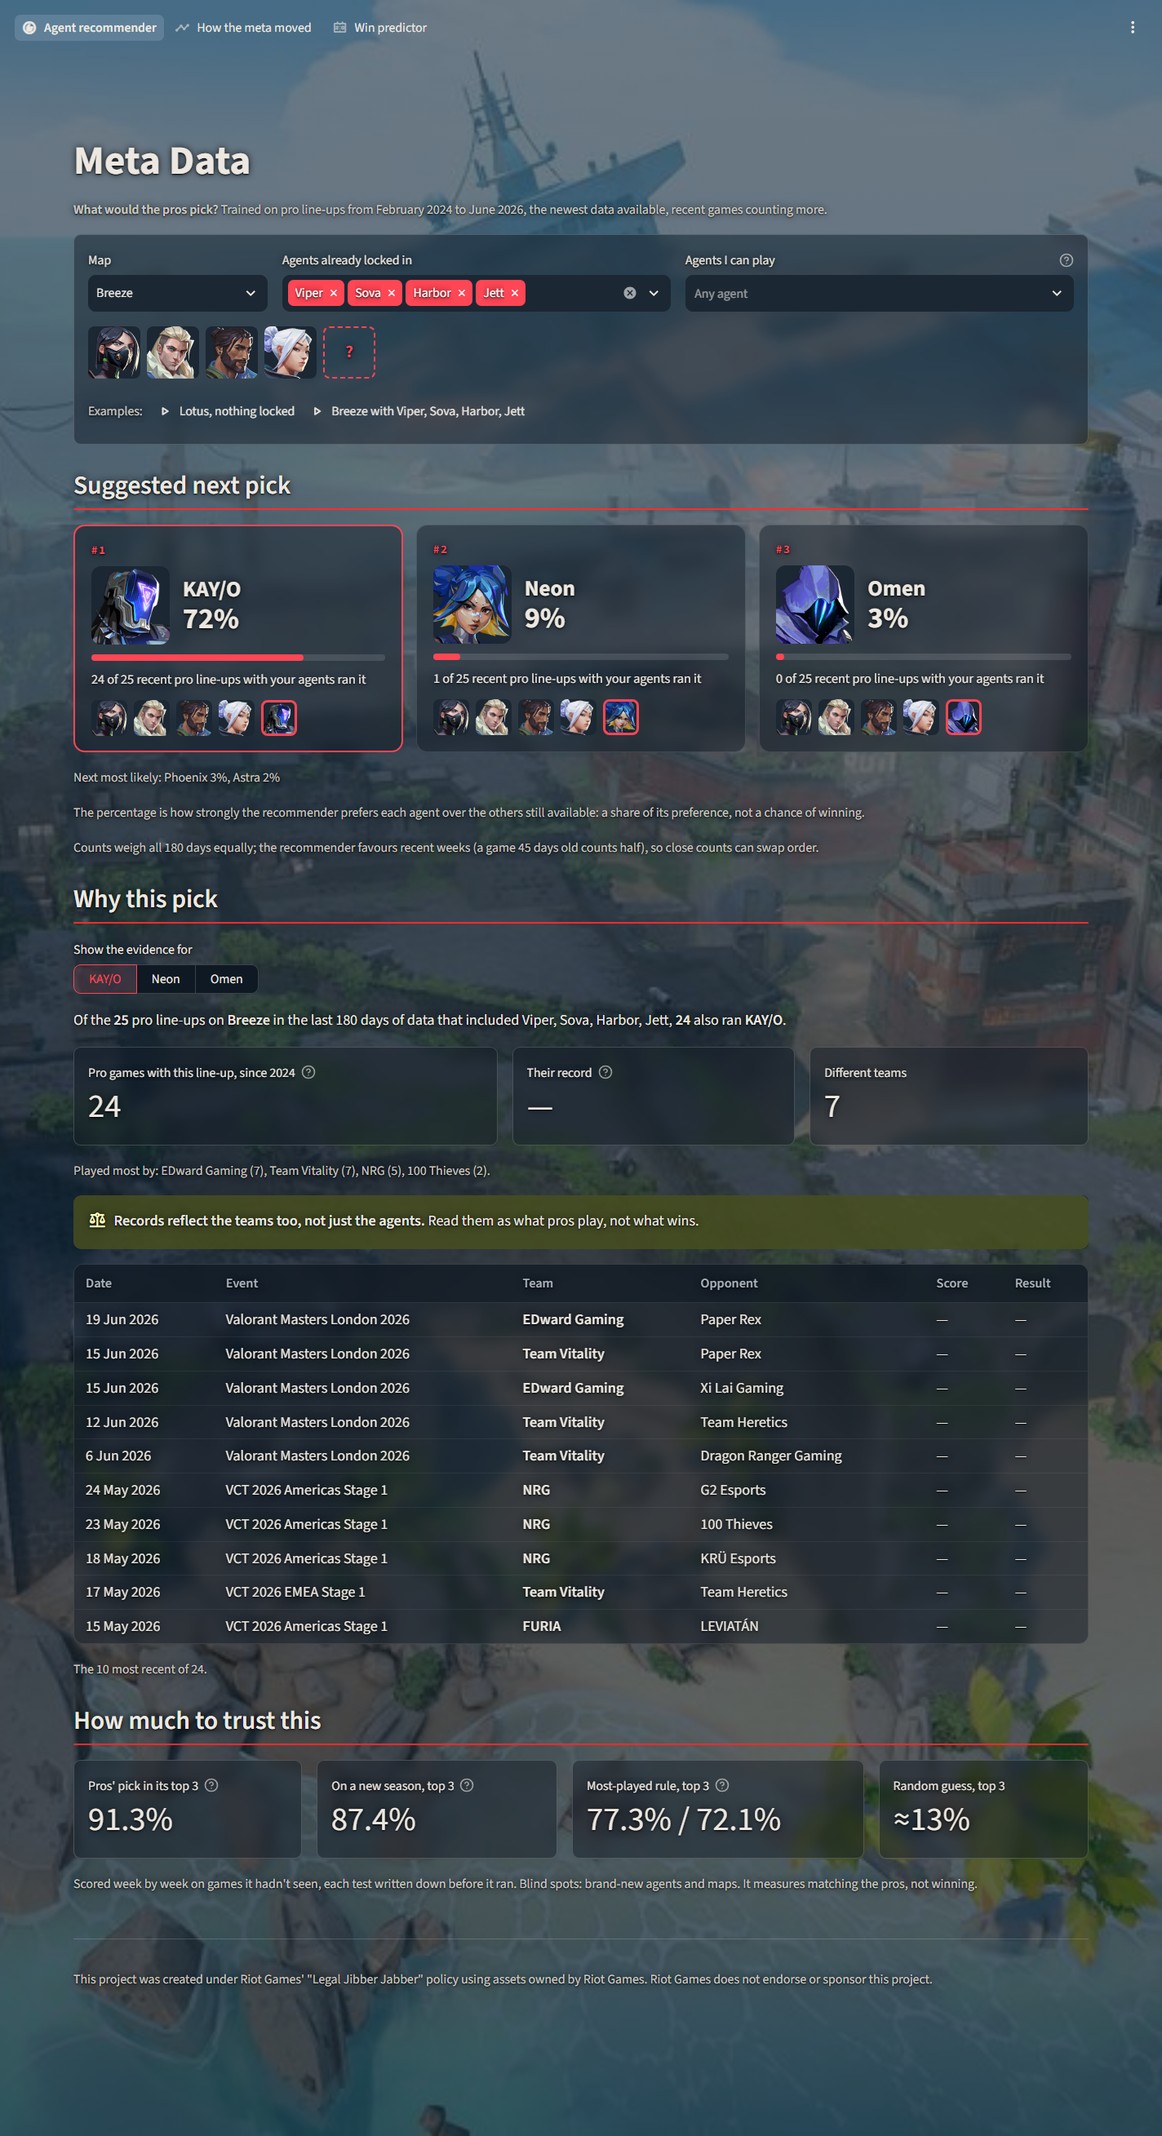
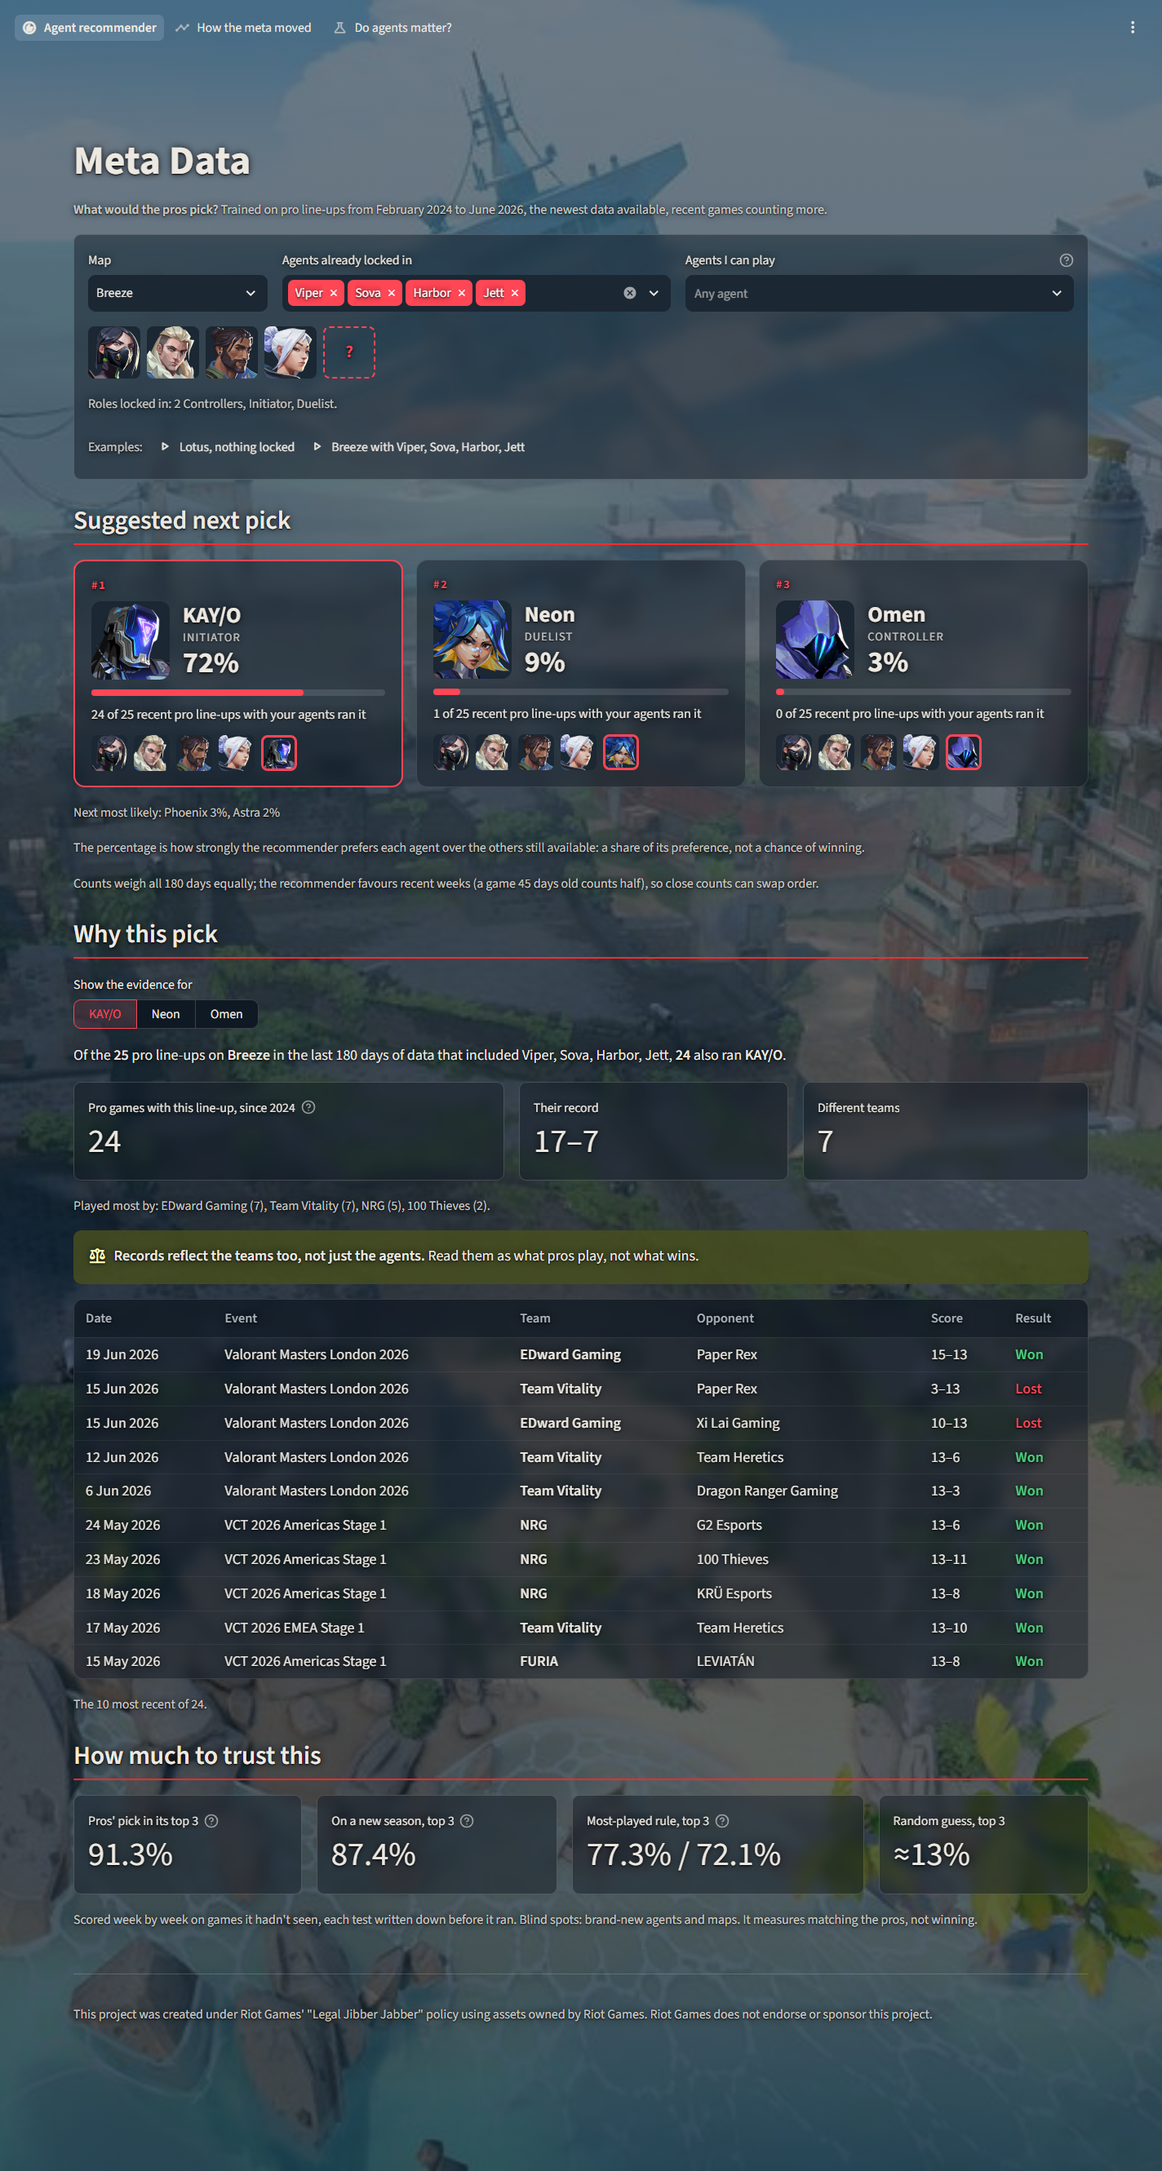
Show 2026 results, add a role check, rename the win predictor
- The app now shows 2026 win results; the win-model test they were held back for was dropped.
- Suggestion cards show each agent's role, and the app warns when a line-up lacks a role
  pros nearly always run (controller, initiator or duelist). Roles are in src/roles.py.
- The win predictor page is now "Do agents matter?", leading with the answer.
- Tests, README and screenshots updated.

diff --git a/app_pages/recommender.py b/app_pages/recommender.py
@@ -21,6 +21,7 @@ sys.path.insert(0, str(Path(__file__).resolve().parent))
 
 from dataset import build_map_table  # noqa: E402
 from recommend import Classifier, games_with, hide_results, lineup_records, lineup_table, pool_picks  # noqa: E402
+from roles import missing_roles, role, role_counts  # noqa: E402
 from icons import glass_table, lineup_html, map_background, pick_cards  # noqa: E402
 
 # The headline method and its settings, fixed in notebook 13 and tested in notebook 14.
@@ -30,9 +31,9 @@ HALF_LIFE_DAYS = 45
 # week on the rest of 2025 and on 2026; the app then learns from all of it, as it would in use.
 SEASONS = ["vct_2024", "vct_2025", "vct_2026"]
 
-# 2026's win results are still unopened (see README), so the app shows that season's line-ups
-# but not who won. The recommender never sees results either way. True opens them.
-SHOW_2026_RESULTS = False
+# 2026's win results were held back for a win-model test that was later dropped, so they're
+# now shown. The recommender never sees results either way. False hides them again.
+SHOW_2026_RESULTS = True
 RESULTS_HIDDEN_FROM = pd.Timestamp("2026-01-01")
 
 # From notebook 14, on the 2025 test half's 1,032 line-ups.
@@ -64,6 +65,22 @@ DISPLAY = {"kayo": "KAY/O"}
 
 def display(agent: str) -> str:
     return DISPLAY.get(agent, agent.capitalize())
+
+
+def roles_text(agents) -> str:
+    """'Controller, Initiator, 2 Duelists': the roles these agents fill."""
+    return ", ".join(r if n == 1 else f"{n} {r}s" for r, n in role_counts(agents).items())
+
+
+def role_warning(agents, lineups: pd.DataFrame) -> None:
+    """Warn if a full line-up lacks a role pros nearly always run, with how rarely they skip it."""
+    for missing, skipped in missing_roles(agents, lineups):
+        how_rare = "None" if skipped == 0 else f"Only {skipped:,}"
+        st.warning(
+            f"**This line-up has no {missing.lower()}.** {how_rare} of the {len(lineups):,} pro "
+            f"line-ups since 2024 went without one.",
+            icon=":material/group_off:",
+        )
 
 
 def record_text(wins: int, known: int) -> str:
@@ -143,6 +160,8 @@ with st.container(border=True, key="glass_controls"):
             key="mine",
         )
     st.html(lineup_html(locked, slots=5 - len(locked), label=display))
+    if locked and roles_text(locked):
+        st.caption(f"Roles locked in: {roles_text(locked)}.")
     with st.container(horizontal=True, vertical_alignment="center"):
         st.caption("Examples:", width="content")
         for label, (example_map, agents) in EXAMPLES.items():
@@ -241,7 +260,8 @@ if locked:
             return f"No pro line-ups on {chosen_map} in the last {EVIDENCE_WINDOW_DAYS} days had these agents"
         return f"{share} recent pro line-ups with your agents ran it"
 
-    st.html(pick_cards([(a, share, evidence(a)) for a, share in top.head(3).items()], locked, label=display))
+    st.html(pick_cards([(a, share, evidence(a)) for a, share in top.head(3).items()], locked,
+                       label=display, role=role))
     if len(top) > 3:
         st.caption("Next most likely: " + ", ".join(f"{display(a)} {share:.0%}" for a, share in top.iloc[3:].items()))
     st.caption("The percentage is how strongly the recommender prefers each agent over the others still "
@@ -277,6 +297,10 @@ if locked:
                else f"{lead:.0f} points better than the most-played rule")
             + " (development data). The more you lock in, the bigger its lead."
         )
+
+    # The role check: game knowledge, not the model. It looks at the line-up the suggestion
+    # completes -- the top pick with four locked in, the one-at-a-time completion otherwise.
+    role_warning(list(locked) + [top.index[0]] if len(locked) == 4 else completion, lineups)
 
     # ---------------------------------------------------------------- why: the games behind it
     st.subheader("Why this pick", divider="red")

diff --git a/test_edge_cases.py b/test_edge_cases.py
@@ -19,6 +19,7 @@ from dates import load_match_dates  # noqa: E402
 from features import build_features, feature_columns  # noqa: E402
 from form import player_form  # noqa: E402
 from model import FINAL_COLUMNS, evaluate, make_final_model  # noqa: E402
+from roles import ROLE, missing_roles, role_counts  # noqa: E402
 from recommend import (  # noqa: E402
     Classifier, CoOccurrence, Popularity, hide_results, lineup_records, lineup_table, pool_picks, rank_of,
 )
@@ -123,6 +124,18 @@ check("hidden results leave no winner or score, and keep every line-up",
       and len(unopened) == 2 * len(season_2026))
 check("earlier results stay visible", hidden[hidden["played_at"] < cut]["won"].notna().all())
 
+every_lineup = lineup_table(pd.concat([maps, season_2026], ignore_index=True))
+unknown = {a for lineup in every_lineup["agents"] for a in lineup} - set(ROLE)
+check(f"every agent in the data has a role (missing: {unknown or 'none'})", not unknown)
+check("roles are counted, with two of a kind shown as two",
+      dict(role_counts(["jett", "raze", "omen", "sova", "killjoy"]))
+      == {"Controller": 1, "Initiator": 1, "Sentinel": 1, "Duelist": 2})
+check("a line-up with no controller is flagged; a missing sentinel isn't",
+      [r for r, _ in missing_roles(["jett", "raze", "neon", "sova", "fade"], every_lineup)] == ["Controller"]
+      and missing_roles(["jett", "raze", "omen", "sova", "fade"], every_lineup) == [])
+check("an agent with no known role turns the check off rather than guess",
+      missing_roles(["jett", "raze", "neon", "sova", "newagent"], every_lineup) == [])
+
 print("\n4. The app, with awkward choices")
 from streamlit.testing.v1 import AppTest  # noqa: E402
 
@@ -152,12 +165,22 @@ at.button[1].click()                                     # the "Breeze with ..."
 at.run()
 check("the demo example button fills the map and all four agents",
       not at.exception and at.selectbox(key="map").value == "Breeze" and len(at.multiselect(key="locked").value) == 4)
-for page in ("app_pages/meta.py", "app_pages/win_predictor.py"):
+check("a line-up with a controller gets no role warning",
+      not any("has no" in w.value for w in at.warning))
+at.multiselect(key="locked").set_value(["jett", "raze", "sova", "killjoy"])
+at.multiselect(key="mine").set_value(["neon"])           # only a duelist left to choose
+at.run()
+check("finishing it with no controller warns, and the cards name each pick's role",
+      not at.exception and any("has no controller" in w.value for w in at.warning)
+      and any("pick-role" in h.value for h in at.get("html")))
+at.multiselect(key="mine").set_value([])
+at.run()
+for page in ("app_pages/meta.py", "app_pages/do_agents_matter.py"):
     at.switch_page(page)
     at.run()
     check(f"{page} loads", not at.exception)
 at.multiselect[0].set_value([])                          # team A picks no agents at all
 at.run()
-check("win predictor: an empty line-up doesn't crash it", not at.exception)
+check("do agents matter: an empty line-up doesn't crash it", not at.exception)
 
 print("\nAll edge cases handled.")

diff --git a/src/roles.py b/src/roles.py
@@ -1,0 +1,55 @@
+"""Each agent's role, and how often pro line-ups go without one.
+
+Roles are game knowledge, not something learned from the data: Riot gives every agent one of
+four. They come from valorant-api.com (fetched November 2026), the source `fetch_icons.py`
+already uses for the images. A new agent needs adding here by hand; `role` returns None for
+one that isn't listed, and the app then says nothing about roles rather than guess.
+"""
+from collections import Counter
+
+import pandas as pd
+
+ROLES = ("Controller", "Initiator", "Sentinel", "Duelist")
+
+ROLE = {
+    "astra": "Controller", "brimstone": "Controller", "clove": "Controller", "harbor": "Controller",
+    "miks": "Controller", "omen": "Controller", "viper": "Controller",
+    "breach": "Initiator", "fade": "Initiator", "gekko": "Initiator", "kayo": "Initiator",
+    "skye": "Initiator", "sova": "Initiator", "tejo": "Initiator",
+    "chamber": "Sentinel", "cypher": "Sentinel", "deadlock": "Sentinel", "killjoy": "Sentinel",
+    "sage": "Sentinel", "veto": "Sentinel", "vyse": "Sentinel",
+    "hush": "Duelist", "iso": "Duelist", "jett": "Duelist", "neon": "Duelist", "phoenix": "Duelist",
+    "raze": "Duelist", "reyna": "Duelist", "waylay": "Duelist", "yoru": "Duelist",
+}
+
+# A role is "nearly always run" if fewer than this share of pro line-ups go without it. Since
+# 2024 that is the controller (no line-up without one), the initiator and the duelist; about a
+# quarter of line-ups skip the sentinel, so a missing sentinel is not worth a warning.
+RARELY_SKIPPED = 0.05
+
+
+def role(agent: str) -> str | None:
+    return ROLE.get(agent)
+
+
+def role_counts(agents) -> Counter:
+    """How many of the agents fill each role, in the order of ROLES, leaving out unknown agents."""
+    counts = Counter(ROLE[a] for a in agents if a in ROLE)
+    return Counter({r: counts[r] for r in ROLES if counts[r]})
+
+
+def without_role(lineups: pd.DataFrame) -> pd.Series:
+    """For each role, how many of these five-agent line-ups had no agent in it."""
+    return pd.Series({r: int(lineups["agents"].map(lambda x: r not in role_counts(x)).sum())
+                      for r in ROLES})
+
+
+def missing_roles(agents, lineups: pd.DataFrame) -> list[tuple[str, int]]:
+    """The roles a full line-up lacks that pros nearly always run, each with how many of the
+    pro line-ups went without it. Empty if any agent's role is unknown, so as not to guess."""
+    if any(a not in ROLE for a in agents):
+        return []
+    skipped = without_role(lineups)
+    have = role_counts(agents)
+    return [(r, int(skipped[r])) for r in ROLES
+            if r not in have and skipped[r] < RARELY_SKIPPED * len(lineups)]

diff --git a/app_pages/icons.py b/app_pages/icons.py
@@ -165,6 +165,7 @@ PICK_CSS = f"""<style>
 .pick-head {{ display: flex; align-items: center; gap: 16px; margin: 8px 0 12px; }}
 .pick-head img {{ width: 96px; height: 96px; border-radius: 12px; background: {SLOT}; flex: none; }}
 .pick-name {{ font-size: 1.5rem; font-weight: 700; line-height: 1.2; }}
+.pick-role {{ font-size: 0.8rem; letter-spacing: 0.08em; text-transform: uppercase; opacity: 0.8; }}
 .pick-pct {{ font-size: 2rem; font-weight: 700; line-height: 1.1; font-variant-numeric: tabular-nums; }}
 .pick-bar {{ height: 8px; border-radius: 4px; background: rgba(255, 255, 255, 0.12); margin-bottom: 10px; }}
 .pick-bar div {{ height: 8px; border-radius: 4px; background: {RED}; }}
@@ -172,9 +173,10 @@ PICK_CSS = f"""<style>
 </style>"""
 
 
-def pick_cards(picks, locked, *, label=lambda a: a) -> str:
-    """The top suggestions as cards for st.html: the agent, its share of the recommender's
-    preference, the evidence behind it, and the line-up it completes with the pick outlined.
+def pick_cards(picks, locked, *, label=lambda a: a, role=lambda a: None) -> str:
+    """The top suggestions as cards for st.html: the agent, its role, its share of the
+    recommender's preference, the evidence behind it, and the line-up it completes with the
+    pick outlined.
 
     picks: (agent, share from 0 to 1, evidence sentence) per card, best first.
     """
@@ -182,11 +184,13 @@ def pick_cards(picks, locked, *, label=lambda a: a) -> str:
     for rank, (agent, share, evidence) in enumerate(picks, start=1):
         uri = agent_uri(agent) or ""
         strip = lineup_html(locked, slots=4 - len(locked), size=44, label=label, pick=agent)
+        kind = role(agent)
         cards.append(
             f'<div class="pick-card{" first" if rank == 1 else ""}">'
             f'<div class="pick-rank">#{rank}</div>'
             f'<div class="pick-head"><img src="{uri}" alt="{html.escape(label(agent))}">'
             f'<div><div class="pick-name">{html.escape(label(agent))}</div>'
+            + (f'<div class="pick-role">{html.escape(kind)}</div>' if kind else "") +
             f'<div class="pick-pct">{share:.0%}</div></div></div>'
             f'<div class="pick-bar"><div style="width:{share * 100:.1f}%"></div></div>'
             f'<div class="pick-evidence">{html.escape(evidence)}</div>{strip}</div>')

diff --git a/app_pages/do_agents_matter.py b/app_pages/do_agents_matter.py
@@ -1,5 +1,5 @@
-"""The win predictor -- the project's supporting work, moved here unchanged from the old
-single-page app when the agent recommender became the headline.
+"""Do agents matter? The project's supporting work: the win predictor, framed around the
+question it actually answers. It began as the old single-page app's win predictor.
 
 Two models are loaded side by side on purpose. One uses how the ten players have been
 performing; the other uses the agents each side picked. Changing the agents moves the
@@ -125,10 +125,16 @@ picked_value = {"Team A": 1, "Team B": -1, "Neither (decider)": 0}[picked_by]
 map_background(chosen_map)
 
 # ---------------------------------------------------------------- the headline
-st.title("Who wins this map?")
+st.title("Do agents matter?")
+st.markdown(
+    "**Not for who wins, as far as this project could find.** Below, two models predict the same "
+    "pro match. One knows how the ten players have been playing; the other knows only the agents "
+    "each side picked. Change the agents and see which one moves, and which one was right more "
+    "often on games it hadn't seen."
+)
 st.caption(
-    "Pro games from 2025. The model sees only what's known before the map: how the ten players "
-    "have been playing, and who chose the map."
+    "Pro games from 2025. Both models see only what's known before the map, including who "
+    "chose it."
 )
 
 rating_a = float(teams.loc[team_a, "rating"])
@@ -143,7 +149,7 @@ chance_a = predict(fitted["form"], {
 favourite, chance = (team_a, chance_a) if chance_a >= 0.5 else (team_b, 1 - chance_a)
 
 with st.container(border=True, key="glass_headline"):
-    st.subheader(f"{team_a} vs {team_b} on {chosen_map}")
+    st.subheader(f"Who wins? {team_a} vs {team_b} on {chosen_map}")
 
     with st.container(horizontal=True):
         st.metric(team_a, f"{chance_a:.1%}", border=True)

diff --git a/streamlit_app.py b/streamlit_app.py
@@ -4,9 +4,9 @@
 
 Three pages. The agent recommender is the headline: pick a map, lock in agents, and see
 what professional teams would pick next, with the past games behind each suggestion.
-"How the meta moved" charts which agents pros played, month by month. The win
-predictor is the supporting work, and shows live that agent picks do not predict who
-wins.
+"How the meta moved" charts which agents pros played, month by month. "Do agents
+matter?" is the supporting work: a win predictor that shows live that agent picks do not
+predict who wins.
 """
 
 import streamlit as st
@@ -25,8 +25,8 @@ page = st.navigation(
                 icon=":material/recommend:", default=True),
         st.Page("app_pages/meta.py", title="How the meta moved",
                 icon=":material/timeline:"),
-        st.Page("app_pages/win_predictor.py", title="Win predictor",
-                icon=":material/scoreboard:"),
+        st.Page("app_pages/do_agents_matter.py", title="Do agents matter?",
+                icon=":material/science:"),
     ],
     position="top",
 )

diff --git a/src/recommend.py b/src/recommend.py
@@ -271,7 +271,7 @@ def hide_results(records: pd.DataFrame, from_date: pd.Timestamp) -> pd.DataFrame
     """Blank who won, and the score, for every game on or after `from_date`.
 
     The line-ups stay, so a season can be learned from and counted while its results
-    remain unopened for a future win-model test.
+    stay hidden (`SHOW_2026_RESULTS` in the app turns this on or off).
     """
     out = records.astype({"won": "boolean", "rounds_for": "Int64", "rounds_against": "Int64"})
     out.loc[out["played_at"] >= from_date, ["won", "rounds_for", "rounds_against"]] = pd.NA

diff --git a/app_pages/meta.py b/app_pages/meta.py
@@ -20,8 +20,7 @@ from recommend import lineup_table  # noqa: E402
 from icons import agent_path, map_background  # noqa: E402
 
 # Seasons shown. 2026 was added only after the recommender's 2026 test (notebook 15) ran,
-# because its pick rates were that test's answers. Pick rates say nothing about who won,
-# so showing them does not touch the win models' still-sealed 2026 test.
+# because its pick rates were that test's answers.
 SEASONS = ["vct_2024", "vct_2025", "vct_2026"]
 
 # A month on one map needs this many line-ups before its pick rate is shown at all.

diff --git a/fetch_vlr_dates.py b/fetch_vlr_dates.py
@@ -6,7 +6,7 @@ reads them from vlr.gg directly, the same way those datasets were built.
 
 It keeps **only the match ID, date, start time and event name** of each match.
 vlr.gg's match lists also show scores; this script never reads them, so it cannot
-leak a sealed season's results (2026's win results are kept unopened for a future test).
+leak a season's results.
 
 **Time zones.** vlr.gg shows times in the visitor's own zone -- UK time, from here --
 while the Kaggle date sources for 2024 and 2025 are in Indian time (UTC+5:30). Checked on

diff --git a/README.md b/README.md
@@ -81,9 +81,9 @@ were measured across every agent, so they don't cover a shortened list.
 
 2024 and 2025 (2,376 maps) are for learning, 2026 (886 maps) for testing. 2021–2023 have no
 dates, so they're left out. Once the tests had run, the live app was retrained on all three
-seasons, so it now includes 2026's line-ups. 2026's win results are still sealed, kept for a
-future test of the win model: the app shows who played what in 2026, but not who won
-(`SHOW_2026_RESULTS` in `app_pages/recommender.py`).
+seasons, so it now includes 2026's line-ups. 2026's win results were held back for a test of
+the win model. That test was dropped, so the app now shows them too (`SHOW_2026_RESULTS` in
+`app_pages/recommender.py`). The win model has therefore never been tested on 2026.
 
 Problems found and fixed (in `src/dataset.py`):
 
@@ -128,8 +128,10 @@ streamlit run streamlit_app.py
 ```
 
 The app has three pages: the recommender, with the past pro games behind each suggestion and
-an optional list of the agents you can play;
-how the meta moved, month by month; and the win predictor. Dataset versions are pinned and
+an optional list of the agents you can play, and a warning if the line-up lacks a role pros
+nearly always run (every pro line-up since 2024 had a controller); how the meta moved, month
+by month; and "Do agents matter?", a win predictor that shows agent picks don't predict the
+winner. Dataset versions are pinned and
 the agent icons and map backgrounds are stored in `assets/` (fetched once by `fetch_icons.py`), so after
 the first download everything runs offline.
 
